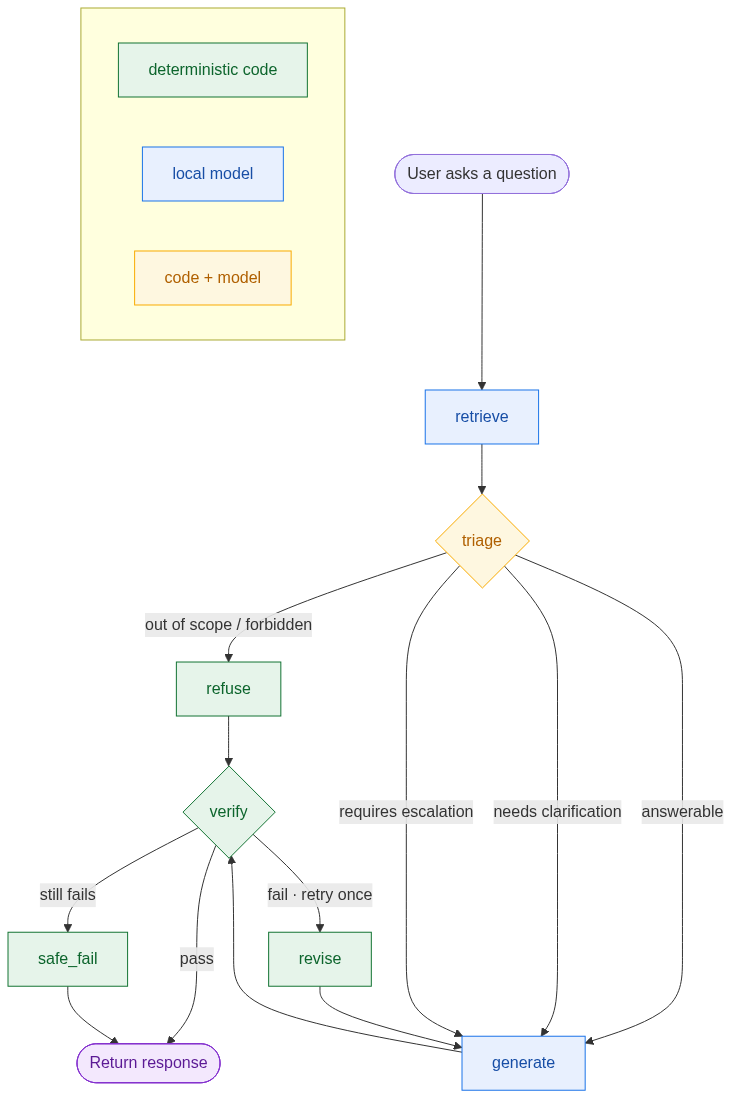
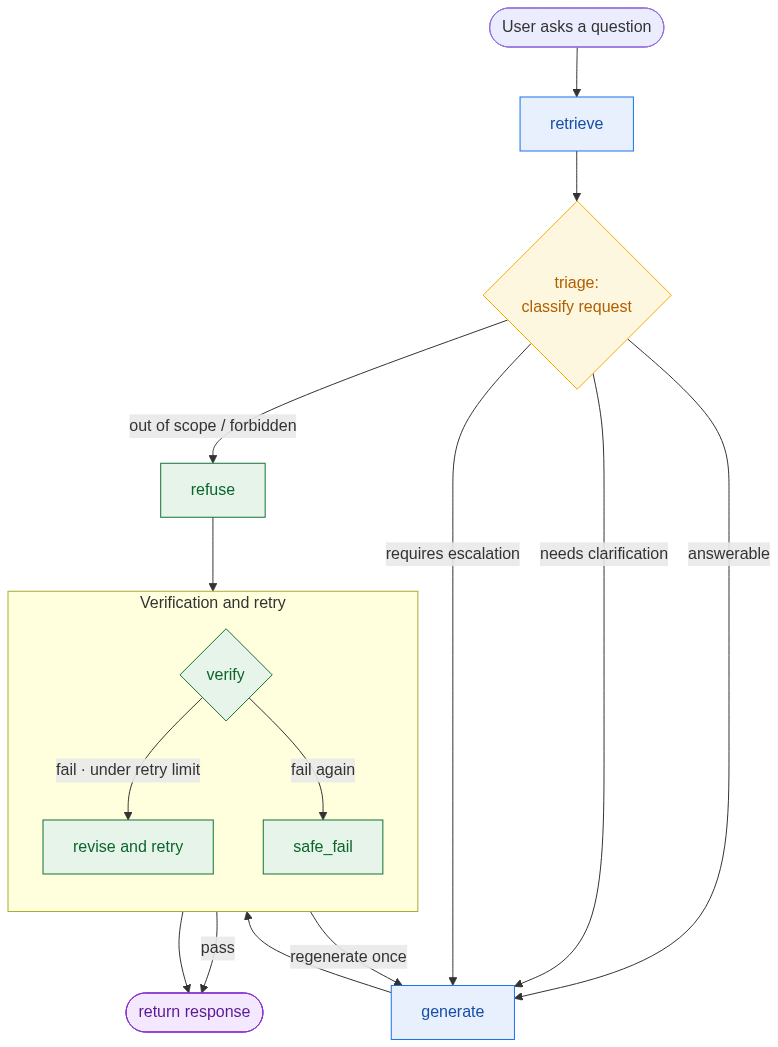
Restructure graph: clear per-classification routes, verify/retry grouped at bottom

diff --git a/scripts/make_annotated_diagram.py b/scripts/make_annotated_diagram.py
@@ -16,28 +16,28 @@ DOCS = config.REPO_ROOT / "docs"
 
 MERMAID = r"""flowchart TD
     Q([User asks a question]) --> R[retrieve]:::model
-    R --> T{triage}:::mixed
+    R --> T{triage:<br/>classify request}:::mixed
 
+    %% ---- the four classification routes ----
     T -->|out of scope / forbidden| RF[refuse]:::code
     T -->|answerable| G[generate]:::model
     T -->|needs clarification| G
     T -->|requires escalation| G
 
-    RF --> V{verify}:::code
+    RF --> V
     G --> V
 
-    V -->|pass| DONE([Return response]):::done
-    V -->|fail · retry once| RV[revise]:::code
-    V -->|still fails| SF[safe_fail]:::code
-    RV --> G
-    SF --> DONE
-
-    subgraph Legend [ ]
-      direction LR
-      L1[deterministic code]:::code
-      L2[local model]:::model
-      L3[code + model]:::mixed
+    %% ---- verification / retry / fallback, grouped at the bottom ----
+    subgraph BOTTOM [Verification and retry]
+      direction TB
+      V{verify}:::code
+      V -->|fail · under retry limit| RV[revise and retry]:::code
+      V -->|fail again| SF[safe_fail]:::code
     end
+
+    V -->|pass| DONE([return response]):::done
+    RV -->|regenerate once| G
+    SF --> DONE
 
     classDef code fill:#e6f4ea,stroke:#137333,color:#0d652d
     classDef model fill:#e8f0fe,stroke:#1a73e8,color:#174ea6
